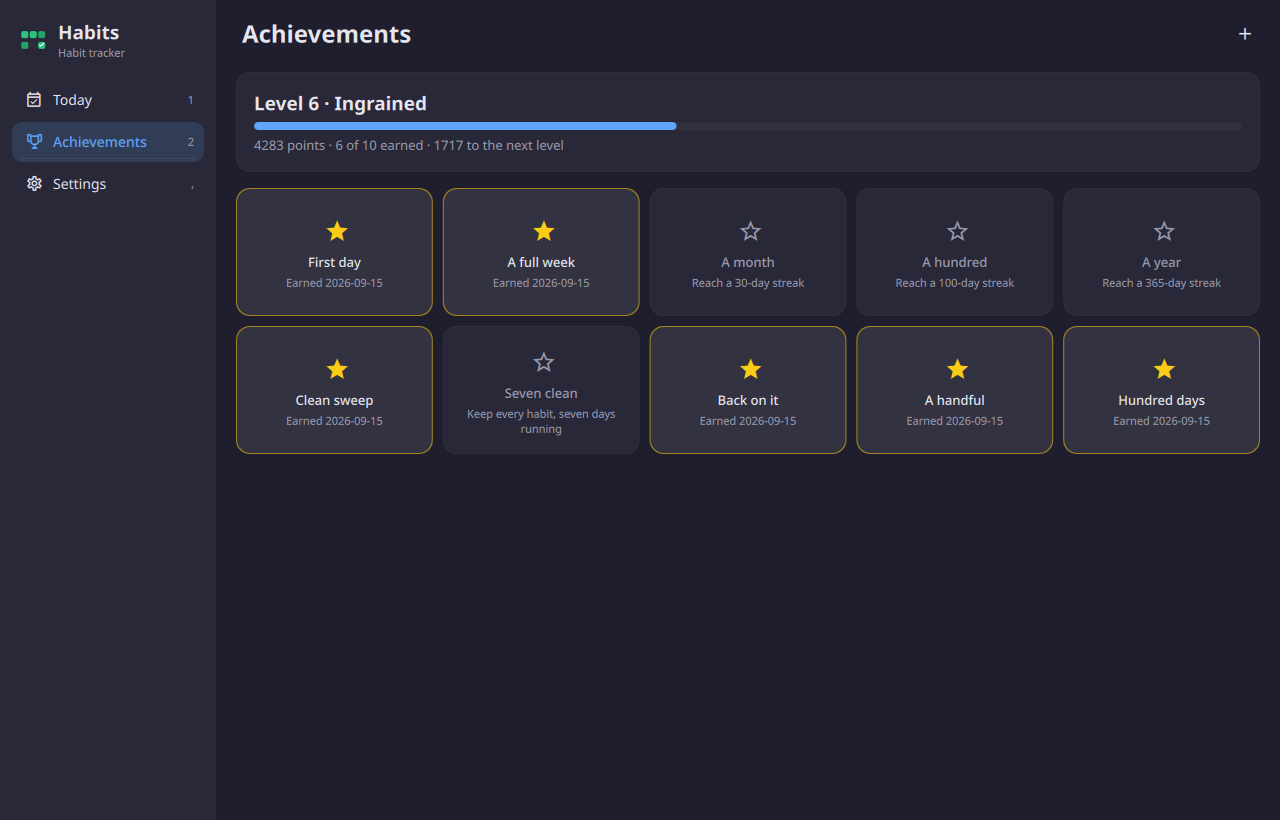
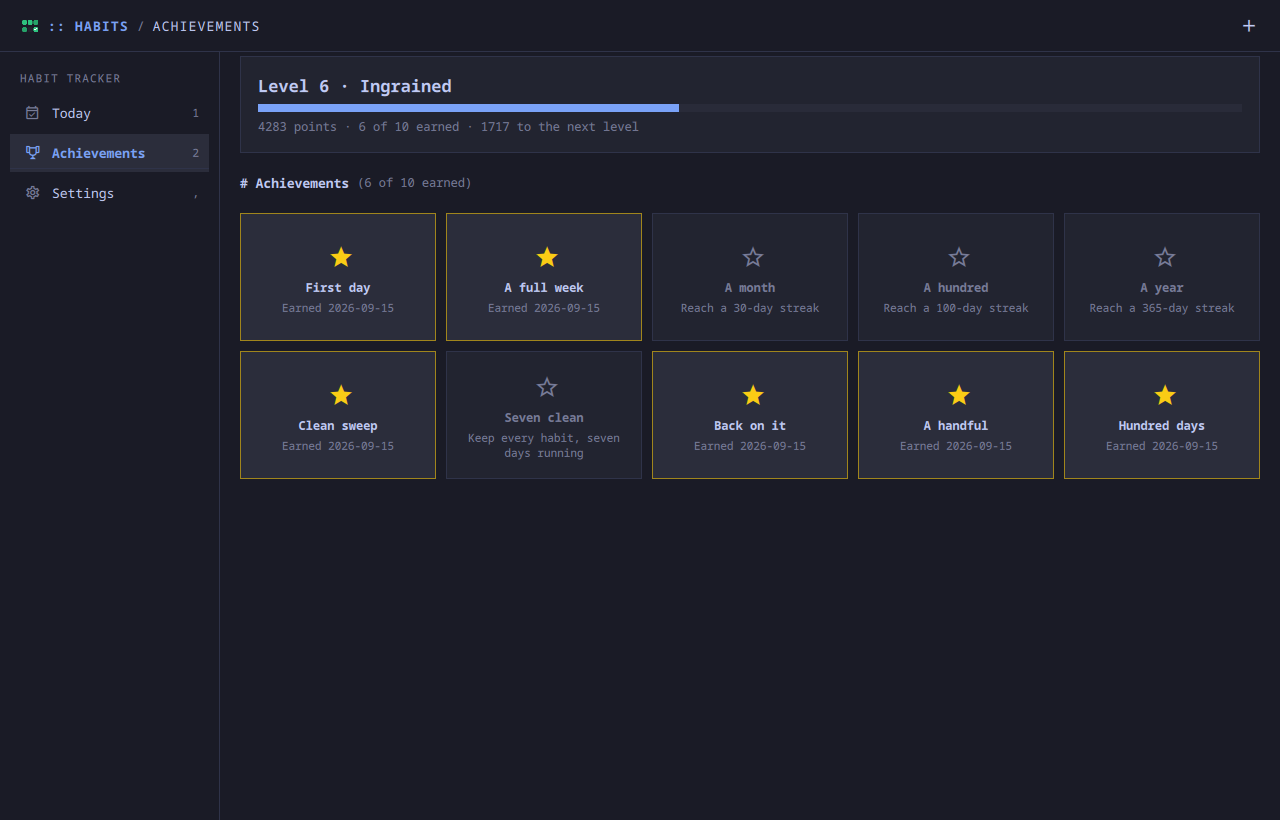
Habits in Omarchy's look: square days, lined boxes, a heading over the badges
The day marks, the history grid, the colour swatches and the bars were
rounded by hand, so under the kit's square chrome they read as another app.
They follow the theme's corners now -- square on Omarchy -- the achievement
tiles are lined boxes, the badges sit under '# Achievements (6 of 10
earned)', and the undo bar is the kit's toast shape. The ring round the
level stays a ring: it is a gauge, not a box.

diff --git a/apps/habits/AchievementsView.qml b/apps/habits/AchievementsView.qml
@@ -48,11 +48,11 @@ Flickable {
         Rectangle {
           width: parent.width
           height: 8
-          radius: 4
+          radius: root.app.ui.round(height)
           color: root.app.ui.well
           Rectangle {
             height: parent.height
-            radius: 4
+            radius: root.app.ui.round(height)
             color: root.app.ui.accent
             width: parent.width * (root.level.toGo === null ? 1
               : root.level.into / Math.max(1, root.level.into + root.level.toGo))
@@ -68,6 +68,12 @@ Flickable {
           font.pixelSize: root.app.ui.fs.sm
         }
       }
+    }
+
+    SectionTitle {
+      app: root.app
+      text: "Achievements"
+      note: root.earnedCount + " of " + Game.ACHIEVEMENTS.length + " earned"
     }
 
     Grid {
@@ -86,10 +92,10 @@ Flickable {
           readonly property bool earned: earnedOn !== ""
           width: grid.tile
           height: 128
-          radius: root.app.ui.radius + 4
+          radius: root.app.ui.radius
           color: earned ? root.app.ui.surfaceHigh : root.app.ui.surface
           border.width: 1
-          border.color: earned ? root.app.ui.alpha(root.app.ui.warn, 0.6) : root.app.ui.divider
+          border.color: earned ? root.app.ui.alpha(root.app.ui.warn, 0.6) : root.app.ui.line
           Accessible.role: Accessible.StaticText
           Accessible.name: modelData[1] + (earned ? ", earned " + earnedOn : ", " + modelData[2])
 
@@ -111,7 +117,7 @@ Flickable {
               color: badge.earned ? root.app.ui.text : root.app.ui.muted
               font.family: root.app.ui.font
               font.pixelSize: root.app.ui.fs.sm
-              font.weight: Font.DemiBold
+              font.weight: Font.Bold
               elide: Text.ElideRight
             }
             // Earned once and never lost, so the date it was earned is worth

diff --git a/apps/habits/TodayView.qml b/apps/habits/TodayView.qml
@@ -73,11 +73,11 @@ Item {
             Rectangle {
               width: parent.width
               height: 6
-              radius: 3
+              radius: root.app.ui.round(height)
               color: root.app.ui.well
               Rectangle {
                 height: parent.height
-                radius: 3
+                radius: root.app.ui.round(height)
                 color: root.app.ui.accent
                 width: parent.width * (root.level.toGo === null ? 1
                   : root.level.into / Math.max(1, root.level.into + root.level.toGo))
@@ -115,7 +115,7 @@ Item {
                 color: modelData === root.app.today ? root.app.ui.accent : root.app.ui.muted
                 font.family: root.app.ui.font
                 font.pixelSize: root.app.ui.fs.xs
-                font.weight: Font.DemiBold
+                font.weight: Font.Bold
               }
               Text {
                 anchors.horizontalCenter: parent.horizontalCenter
@@ -132,10 +132,10 @@ Item {
       Rectangle {
         width: parent.width
         height: rowsCol.implicitHeight + 8
-        radius: root.app.ui.radius + 4
+        radius: root.app.ui.radius
         color: root.app.ui.surface
         border.width: 1
-        border.color: root.app.ui.divider
+        border.color: root.app.ui.line
         Column {
           id: rowsCol
           x: 4

diff --git a/apps/habits/Panel.qml b/apps/habits/Panel.qml
@@ -411,9 +411,11 @@ App {
     anchors.bottom: parent.bottom
     anchors.bottomMargin: 16
     width: Math.min(parent.width - 32, undoRow.implicitWidth + 32)
-    height: 48
-    radius: 24
-    color: root.ui.text
+    height: 42
+    radius: root.ui.radius
+    color: root.ui.surfaceHigh
+    border.width: 1
+    border.color: root.ui.line
     Row {
       id: undoRow
       anchors.centerIn: parent
@@ -421,10 +423,9 @@ App {
       Text {
         anchors.verticalCenter: parent.verticalCenter
         text: "Deleted " + (root.removed ? root.removed.habit.name : "")
-        color: root.ui.bg
+        color: root.ui.text
         font.family: root.ui.font
         font.pixelSize: root.ui.fs.sm
-        font.weight: Font.DemiBold
       }
       Text {
         anchors.verticalCenter: parent.verticalCenter
@@ -433,6 +434,8 @@ App {
         font.family: root.ui.font
         font.pixelSize: root.ui.fs.sm
         font.weight: Font.Bold
+        font.capitalization: Font.AllUppercase
+        font.letterSpacing: root.ui.tracking
         MouseArea { anchors.fill: parent; anchors.margins: -12; onClicked: root.undoDelete() }
       }
     }

diff --git a/apps/habits/Heatmap.qml b/apps/habits/Heatmap.qml
@@ -48,7 +48,7 @@ Row {
             required property var modelData
             width: root.cell
             height: root.cell
-            radius: Math.max(2, Math.round(root.cell * 0.25))
+            radius: root.app.ui.radius > 0 ? Math.max(2, Math.round(root.cell * 0.25)) : 0
             // A day that has not happened yet is left out, not marked missed.
             color: modelData === null ? "transparent"
               : root.habit ? root.app.markColour(root.habit, modelData, root.app.revision) : "transparent"

diff --git a/apps/habits/HabitRow.qml b/apps/habits/HabitRow.qml
@@ -36,7 +36,7 @@ Rectangle {
     y: root.stacked ? 18 : (parent.height - height) / 2
     width: 10
     height: 10
-    radius: 5
+    radius: root.app.ui.radius > 0 ? 5 : 0
     color: root.habit ? root.app.habitHue(root.habit.colour) : "transparent"
   }
 
@@ -53,7 +53,7 @@ Rectangle {
       color: root.app.ui.text
       font.family: root.app.ui.font
       font.pixelSize: root.app.ui.fs.md
-      font.weight: Font.DemiBold
+      font.weight: Font.Bold
       elide: Text.ElideRight
     }
     Text {

diff --git a/apps/habits/DayMark.qml b/apps/habits/DayMark.qml
@@ -23,7 +23,8 @@ Item {
     anchors.centerIn: parent
     width: root.size
     height: root.size
-    radius: Math.max(3, Math.round(root.size * 0.28))
+    // A square, as a day on Omarchy is; rounded only where the theme rounds.
+    radius: root.app.ui.radius > 0 ? Math.max(3, Math.round(root.size * 0.28)) : 0
     color: root.habit && root.day ? root.app.markColour(root.habit, root.day, root.app.revision) : "transparent"
     border.width: root.isToday ? 2 : 0
     border.color: root.app.ui.accent

diff --git a/apps/habits/DetailView.qml b/apps/habits/DetailView.qml
@@ -132,12 +132,12 @@ Item {
           Rectangle {
             width: parent.width
             height: 8
-            radius: 4
+            radius: root.app.ui.round(height)
             color: root.app.ui.well
             Rectangle {
               width: parent.width * root.strength
               height: parent.height
-              radius: 4
+              radius: root.app.ui.round(height)
               color: root.hue
             }
           }

diff --git a/apps/habits/EditorView.qml b/apps/habits/EditorView.qml
@@ -165,7 +165,7 @@ Item {
                 anchors.centerIn: parent
                 width: 34
                 height: 34
-                radius: 10
+                radius: root.app.ui.radius
                 color: root.app.habitHue(swatch.modelData.key)
                 border.width: swatch.chosen ? 3 : 0
                 border.color: root.app.ui.text
